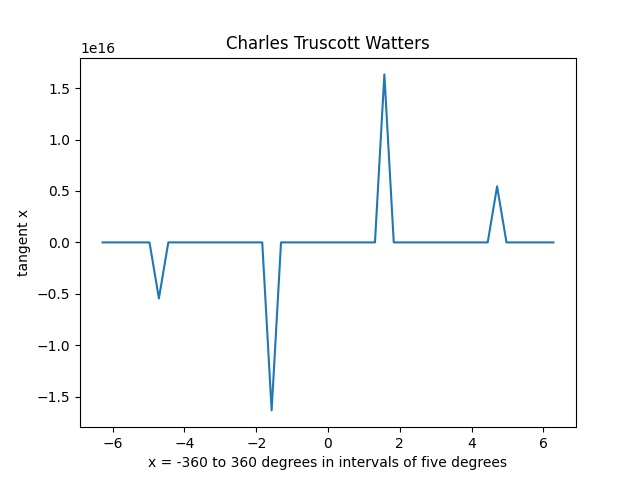
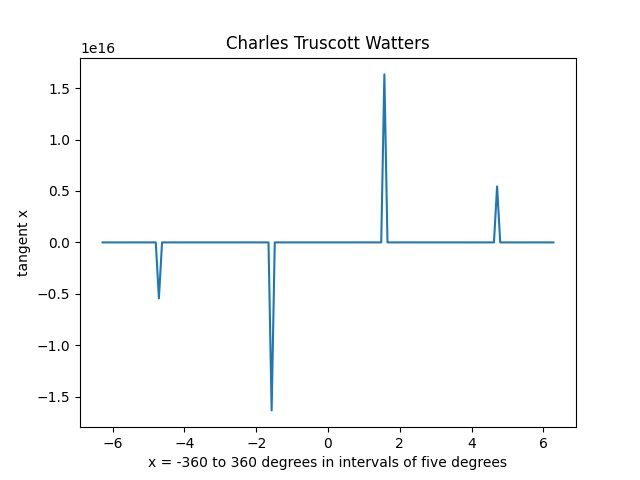
Add files via upload

diff --git a/trig.py b/trig.py
@@ -13,9 +13,9 @@ def main():
 	y_1 = []
 	x_2 = []
 	y_2 = []
-	for q in range(-360, 360 + 15, 15):
+	for q in range(-360, 360 + 5, 5):
 		x.append((q * (math.pi / 180)))
-	for r in range(-360, 360 + 15, 15):
+	for r in range(-360, 360 + 5, 5):
 		x_1.append((r * (math.pi / 180)))
 		x_2.append((r * (math.pi / 180)))
 		y.append(math.sin(r * (math.pi / 180)))

diff --git a/greedymaxvalfib.py b/greedymaxvalfib.py
@@ -48,8 +48,6 @@ Take the LB
 ...
 
 ...
-
-
 Take the RB
 Reached the end of a set
 The list of items at this stage of recursive call is:
